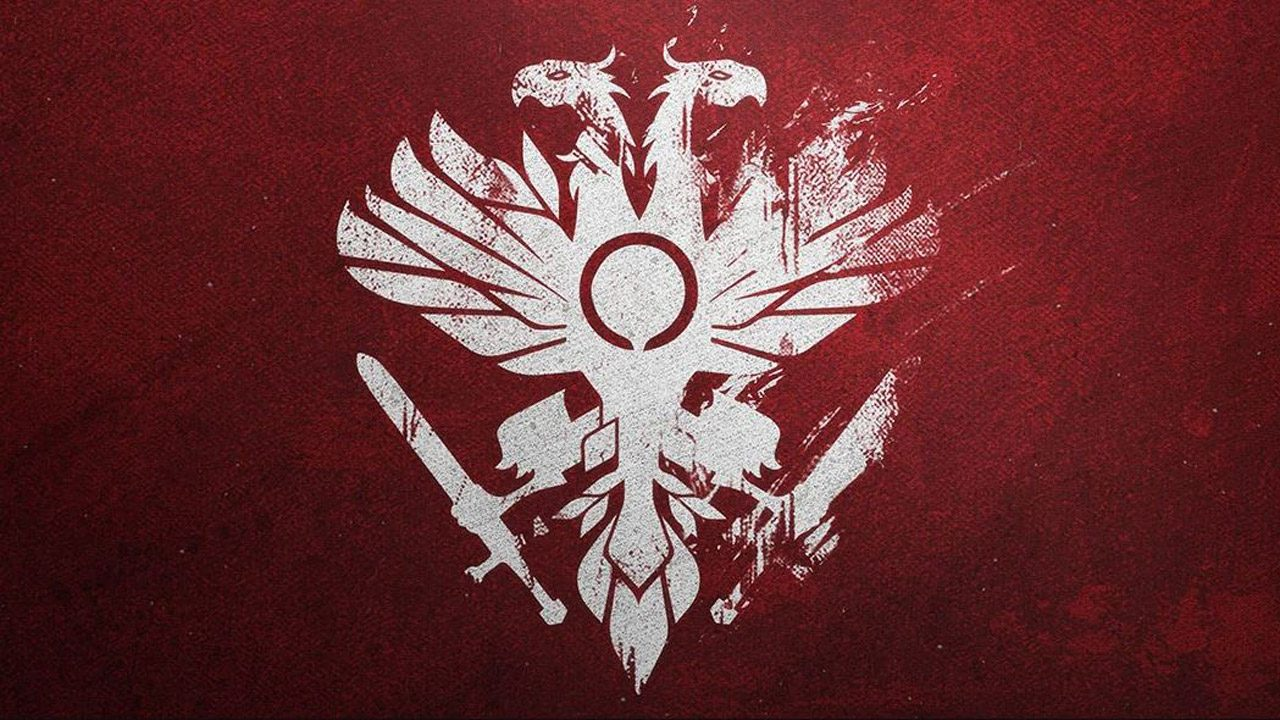
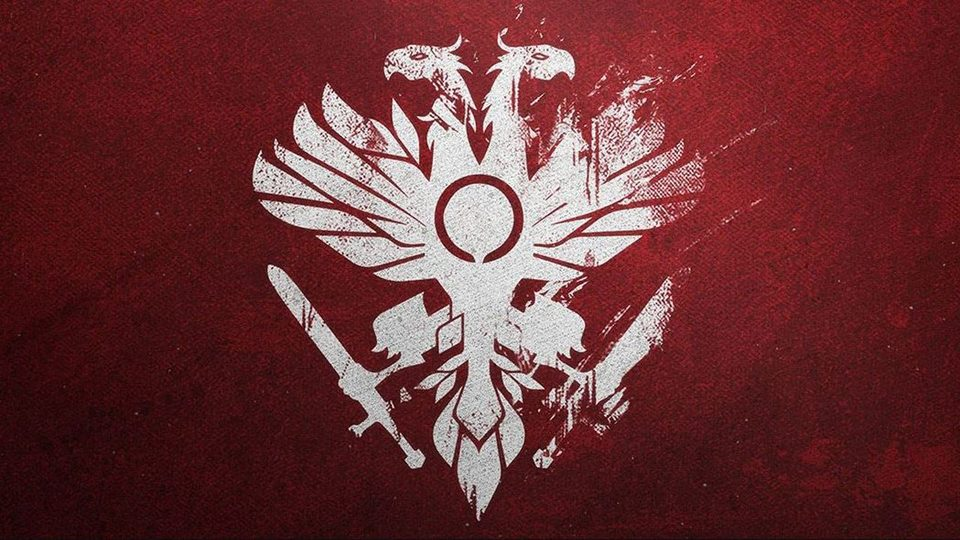
SEO: description lengths, structured data, smaller key art
- Guide descriptions cut at ~155 characters (Google's limit) instead of
  197; the eight short ones (Home, This Week, Guides, Raids, Dungeons,
  FAQ, God Rolls, Privacy, Terms) rewritten at 126-153.
- JSON-LD: breadcrumbs + Article on every guide (generated), WebSite +
  Organization on Home; the site checks validate it.
- Crucible crest 960x540 (201 -> 121KB), Pantheon art re-saved (214 -> 190KB).

Claude-Session: https://claude.ai/code/session_014FnQn4wDgFVhEKCEvJxqMS

Changed region(s): [[0.6562, 0.2667, 0.7188, 0.3556], [0.625, 0.237, 0.6875, 0.2963]]

diff --git a/dungeon-spire-of-the-watcher.html b/dungeon-spire-of-the-watcher.html
@@ -42,11 +42,11 @@
 </script>
 <title>Spire of the Watcher Dungeon Guide - Rally Flag</title>
 <script>window.GUIDE_SLUG = "spire-of-the-watcher";</script>
-<meta name="description" content="Spire of the Watcher runs on a single mechanic the whole way through: kill Conduit Minotaurs for a buff called Arctrician, then use it to power nodes in the correct sequence along a cable. Once…">
+<meta name="description" content="Spire of the Watcher runs on a single mechanic the whole way through: kill Conduit Minotaurs for a buff called Arctrician, then use it to power nodes in…">
 <meta property="og:type" content="website">
 <meta property="og:site_name" content="Rally Flag">
 <meta property="og:title" content="Spire of the Watcher Dungeon Guide">
-<meta property="og:description" content="Spire of the Watcher runs on a single mechanic the whole way through: kill Conduit Minotaurs for a buff called Arctrician, then use it to power nodes in the correct sequence along a cable. Once…">
+<meta property="og:description" content="Spire of the Watcher runs on a single mechanic the whole way through: kill Conduit Minotaurs for a buff called Arctrician, then use it to power nodes in…">
 <meta property="og:url" content="https://rallyflag.gg/dungeon-spire-of-the-watcher.html">
 <link rel="canonical" href="https://rallyflag.gg/dungeon-spire-of-the-watcher.html">
 <meta property="og:image" content="https://www.bungie.net/img/destiny_content/pgcr/dungeon_spire_of_the_watcher.jpg">
@@ -55,7 +55,7 @@
 <meta property="og:image:alt" content="Spire of the Watcher, official Destiny 2 art">
 <meta name="twitter:card" content="summary_large_image">
 <meta name="twitter:title" content="Spire of the Watcher Dungeon Guide">
-<meta name="twitter:description" content="Spire of the Watcher runs on a single mechanic the whole way through: kill Conduit Minotaurs for a buff called Arctrician, then use it to power nodes in the correct sequence along a cable. Once…">
+<meta name="twitter:description" content="Spire of the Watcher runs on a single mechanic the whole way through: kill Conduit Minotaurs for a buff called Arctrician, then use it to power nodes in…">
 <meta name="twitter:image" content="https://www.bungie.net/img/destiny_content/pgcr/dungeon_spire_of_the_watcher.jpg">
 <link rel="preconnect" href="https://fonts.googleapis.com">
 <link rel="preconnect" href="https://fonts.gstatic.com" crossorigin>
@@ -134,6 +134,7 @@
   .yc-link{ font-size:13px; color:var(--accent-text); white-space:nowrap; }
   @media (max-width:640px){ .your-clears{ margin:14px 16px 0; } }
 </style>
+<script type="application/ld+json">{"@context":"https://schema.org","@graph":[{"@type":"BreadcrumbList","itemListElement":[{"@type":"ListItem","position":1,"name":"Rally Flag","item":"https://rallyflag.gg/"},{"@type":"ListItem","position":2,"name":"Dungeons","item":"https://rallyflag.gg/dungeons.html"},{"@type":"ListItem","position":3,"name":"Spire of the Watcher","item":"https://rallyflag.gg/dungeon-spire-of-the-watcher.html"}]},{"@type":"Article","headline":"Spire of the Watcher Dungeon Guide","description":"Spire of the Watcher runs on a single mechanic the whole way through: kill Conduit Minotaurs for a buff called Arctrician, then use it to power nodes in…","image":["https://www.bungie.net/img/destiny_content/pgcr/dungeon_spire_of_the_watcher.jpg"],"url":"https://rallyflag.gg/dungeon-spire-of-the-watcher.html","mainEntityOfPage":"https://rallyflag.gg/dungeon-spire-of-the-watcher.html","inLanguage":"en","about":{"@type":"VideoGame","name":"Destiny 2"},"author":{"@type":"Organization","name":"Rally Flag","url":"https://rallyflag.gg/"},"publisher":{"@type":"Organization","name":"Rally Flag","url":"https://rallyflag.gg/","logo":{"@type":"ImageObject","url":"https://rallyflag.gg/assets/icon-512.png"}}}]}</script>
 </head>
 <body data-nav-group="guides">
 

diff --git a/dungeon-grasp-of-avarice.html b/dungeon-grasp-of-avarice.html
@@ -42,11 +42,11 @@
 </script>
 <title>Grasp of Avarice Dungeon Guide - Rally Flag</title>
 <script>window.GUIDE_SLUG = "grasp-of-avarice";</script>
-<meta name="description" content="Grasp of Avarice takes place in the Cosmodrome's old loot cave, and it's built around one repeating idea: kill enemies for a stacking buff called Burdened by Riches, then carry it to a crystal to…">
+<meta name="description" content="Grasp of Avarice takes place in the Cosmodrome's old loot cave, and it's built around one repeating idea: kill enemies for a stacking buff called Burdened…">
 <meta property="og:type" content="website">
 <meta property="og:site_name" content="Rally Flag">
 <meta property="og:title" content="Grasp of Avarice Dungeon Guide">
-<meta property="og:description" content="Grasp of Avarice takes place in the Cosmodrome's old loot cave, and it's built around one repeating idea: kill enemies for a stacking buff called Burdened by Riches, then carry it to a crystal to…">
+<meta property="og:description" content="Grasp of Avarice takes place in the Cosmodrome's old loot cave, and it's built around one repeating idea: kill enemies for a stacking buff called Burdened…">
 <meta property="og:url" content="https://rallyflag.gg/dungeon-grasp-of-avarice.html">
 <link rel="canonical" href="https://rallyflag.gg/dungeon-grasp-of-avarice.html">
 <meta property="og:image" content="https://www.bungie.net/img/destiny_content/pgcr/30th-anniversary-grasp-of-avarice.jpg">
@@ -55,7 +55,7 @@
 <meta property="og:image:alt" content="Grasp of Avarice, official Destiny 2 art">
 <meta name="twitter:card" content="summary_large_image">
 <meta name="twitter:title" content="Grasp of Avarice Dungeon Guide">
-<meta name="twitter:description" content="Grasp of Avarice takes place in the Cosmodrome's old loot cave, and it's built around one repeating idea: kill enemies for a stacking buff called Burdened by Riches, then carry it to a crystal to…">
+<meta name="twitter:description" content="Grasp of Avarice takes place in the Cosmodrome's old loot cave, and it's built around one repeating idea: kill enemies for a stacking buff called Burdened…">
 <meta name="twitter:image" content="https://www.bungie.net/img/destiny_content/pgcr/30th-anniversary-grasp-of-avarice.jpg">
 <link rel="preconnect" href="https://fonts.googleapis.com">
 <link rel="preconnect" href="https://fonts.gstatic.com" crossorigin>
@@ -134,6 +134,7 @@
   .yc-link{ font-size:13px; color:var(--accent-text); white-space:nowrap; }
   @media (max-width:640px){ .your-clears{ margin:14px 16px 0; } }
 </style>
+<script type="application/ld+json">{"@context":"https://schema.org","@graph":[{"@type":"BreadcrumbList","itemListElement":[{"@type":"ListItem","position":1,"name":"Rally Flag","item":"https://rallyflag.gg/"},{"@type":"ListItem","position":2,"name":"Dungeons","item":"https://rallyflag.gg/dungeons.html"},{"@type":"ListItem","position":3,"name":"Grasp of Avarice","item":"https://rallyflag.gg/dungeon-grasp-of-avarice.html"}]},{"@type":"Article","headline":"Grasp of Avarice Dungeon Guide","description":"Grasp of Avarice takes place in the Cosmodrome's old loot cave, and it's built around one repeating idea: kill enemies for a stacking buff called Burdened…","image":["https://www.bungie.net/img/destiny_content/pgcr/30th-anniversary-grasp-of-avarice.jpg"],"url":"https://rallyflag.gg/dungeon-grasp-of-avarice.html","mainEntityOfPage":"https://rallyflag.gg/dungeon-grasp-of-avarice.html","inLanguage":"en","about":{"@type":"VideoGame","name":"Destiny 2"},"author":{"@type":"Organization","name":"Rally Flag","url":"https://rallyflag.gg/"},"publisher":{"@type":"Organization","name":"Rally Flag","url":"https://rallyflag.gg/","logo":{"@type":"ImageObject","url":"https://rallyflag.gg/assets/icon-512.png"}}}]}</script>
 </head>
 <body data-nav-group="guides">
 

diff --git a/dungeon-ghosts-of-the-deep.html b/dungeon-ghosts-of-the-deep.html
@@ -42,11 +42,11 @@
 </script>
 <title>Ghosts of the Deep Dungeon Guide - Rally Flag</title>
 <script>window.GUIDE_SLUG = "ghosts-of-the-deep";</script>
-<meta name="description" content="Ghosts of the Deep leans on one repeating idea: track down a Hive rune symbol, defeat a Lightbearer to claim a Vestige of Light buff, then imbue the correct matching statue before the buff's timer…">
+<meta name="description" content="Ghosts of the Deep leans on one repeating idea: track down a Hive rune symbol, defeat a Lightbearer to claim a Vestige of Light buff, then imbue the…">
 <meta property="og:type" content="website">
 <meta property="og:site_name" content="Rally Flag">
 <meta property="og:title" content="Ghosts of the Deep Dungeon Guide">
-<meta property="og:description" content="Ghosts of the Deep leans on one repeating idea: track down a Hive rune symbol, defeat a Lightbearer to claim a Vestige of Light buff, then imbue the correct matching statue before the buff's timer…">
+<meta property="og:description" content="Ghosts of the Deep leans on one repeating idea: track down a Hive rune symbol, defeat a Lightbearer to claim a Vestige of Light buff, then imbue the…">
 <meta property="og:url" content="https://rallyflag.gg/dungeon-ghosts-of-the-deep.html">
 <link rel="canonical" href="https://rallyflag.gg/dungeon-ghosts-of-the-deep.html">
 <meta property="og:image" content="https://www.bungie.net/img/destiny_content/pgcr/dungeon_ghosts_of_the_deep.jpg">
@@ -55,7 +55,7 @@
 <meta property="og:image:alt" content="Ghosts of the Deep, official Destiny 2 art">
 <meta name="twitter:card" content="summary_large_image">
 <meta name="twitter:title" content="Ghosts of the Deep Dungeon Guide">
-<meta name="twitter:description" content="Ghosts of the Deep leans on one repeating idea: track down a Hive rune symbol, defeat a Lightbearer to claim a Vestige of Light buff, then imbue the correct matching statue before the buff's timer…">
+<meta name="twitter:description" content="Ghosts of the Deep leans on one repeating idea: track down a Hive rune symbol, defeat a Lightbearer to claim a Vestige of Light buff, then imbue the…">
 <meta name="twitter:image" content="https://www.bungie.net/img/destiny_content/pgcr/dungeon_ghosts_of_the_deep.jpg">
 <link rel="preconnect" href="https://fonts.googleapis.com">
 <link rel="preconnect" href="https://fonts.gstatic.com" crossorigin>
@@ -134,6 +134,7 @@
   .yc-link{ font-size:13px; color:var(--accent-text); white-space:nowrap; }
   @media (max-width:640px){ .your-clears{ margin:14px 16px 0; } }
 </style>
+<script type="application/ld+json">{"@context":"https://schema.org","@graph":[{"@type":"BreadcrumbList","itemListElement":[{"@type":"ListItem","position":1,"name":"Rally Flag","item":"https://rallyflag.gg/"},{"@type":"ListItem","position":2,"name":"Dungeons","item":"https://rallyflag.gg/dungeons.html"},{"@type":"ListItem","position":3,"name":"Ghosts of the Deep","item":"https://rallyflag.gg/dungeon-ghosts-of-the-deep.html"}]},{"@type":"Article","headline":"Ghosts of the Deep Dungeon Guide","description":"Ghosts of the Deep leans on one repeating idea: track down a Hive rune symbol, defeat a Lightbearer to claim a Vestige of Light buff, then imbue the…","image":["https://www.bungie.net/img/destiny_content/pgcr/dungeon_ghosts_of_the_deep.jpg"],"url":"https://rallyflag.gg/dungeon-ghosts-of-the-deep.html","mainEntityOfPage":"https://rallyflag.gg/dungeon-ghosts-of-the-deep.html","inLanguage":"en","about":{"@type":"VideoGame","name":"Destiny 2"},"author":{"@type":"Organization","name":"Rally Flag","url":"https://rallyflag.gg/"},"publisher":{"@type":"Organization","name":"Rally Flag","url":"https://rallyflag.gg/","logo":{"@type":"ImageObject","url":"https://rallyflag.gg/assets/icon-512.png"}}}]}</script>
 </head>
 <body data-nav-group="guides">
 

diff --git a/raid-garden-of-salvation.html b/raid-garden-of-salvation.html
@@ -42,11 +42,11 @@
 </script>
 <title>Garden of Salvation Raid Guide - Rally Flag</title>
 <script>window.GUIDE_SLUG = "garden-of-salvation";</script>
-<meta name="description" content="Garden of Salvation is short compared to most raids (just four encounters), but it makes up for that with pure endurance. There's very little in the way of puzzles here; it's mostly about managing…">
+<meta name="description" content="Garden of Salvation is short compared to most raids (just four encounters), but it makes up for that with pure endurance. There's very little in the way…">
 <meta property="og:type" content="website">
 <meta property="og:site_name" content="Rally Flag">
 <meta property="og:title" content="Garden of Salvation Raid Guide">
-<meta property="og:description" content="Garden of Salvation is short compared to most raids (just four encounters), but it makes up for that with pure endurance. There's very little in the way of puzzles here; it's mostly about managing…">
+<meta property="og:description" content="Garden of Salvation is short compared to most raids (just four encounters), but it makes up for that with pure endurance. There's very little in the way…">
 <meta property="og:url" content="https://rallyflag.gg/raid-garden-of-salvation.html">
 <link rel="canonical" href="https://rallyflag.gg/raid-garden-of-salvation.html">
 <meta property="og:image" content="https://www.bungie.net/img/destiny_content/pgcr/raid_garden_of_salvation.jpg">
@@ -55,7 +55,7 @@
 <meta property="og:image:alt" content="Garden of Salvation, official Destiny 2 art">
 <meta name="twitter:card" content="summary_large_image">
 <meta name="twitter:title" content="Garden of Salvation Raid Guide">
-<meta name="twitter:description" content="Garden of Salvation is short compared to most raids (just four encounters), but it makes up for that with pure endurance. There's very little in the way of puzzles here; it's mostly about managing…">
+<meta name="twitter:description" content="Garden of Salvation is short compared to most raids (just four encounters), but it makes up for that with pure endurance. There's very little in the way…">
 <meta name="twitter:image" content="https://www.bungie.net/img/destiny_content/pgcr/raid_garden_of_salvation.jpg">
 <link rel="preconnect" href="https://fonts.googleapis.com">
 <link rel="preconnect" href="https://fonts.gstatic.com" crossorigin>
@@ -199,6 +199,7 @@
   .yc-link{ font-size:13px; color:var(--accent-text); white-space:nowrap; }
   @media (max-width:640px){ .your-clears{ margin:14px 16px 0; } }
 </style>
+<script type="application/ld+json">{"@context":"https://schema.org","@graph":[{"@type":"BreadcrumbList","itemListElement":[{"@type":"ListItem","position":1,"name":"Rally Flag","item":"https://rallyflag.gg/"},{"@type":"ListItem","position":2,"name":"Raids","item":"https://rallyflag.gg/raids.html"},{"@type":"ListItem","position":3,"name":"Garden of Salvation","item":"https://rallyflag.gg/raid-garden-of-salvation.html"}]},{"@type":"Article","headline":"Garden of Salvation Raid Guide","description":"Garden of Salvation is short compared to most raids (just four encounters), but it makes up for that with pure endurance. There's very little in the way…","image":["https://www.bungie.net/img/destiny_content/pgcr/raid_garden_of_salvation.jpg"],"url":"https://rallyflag.gg/raid-garden-of-salvation.html","mainEntityOfPage":"https://rallyflag.gg/raid-garden-of-salvation.html","inLanguage":"en","about":{"@type":"VideoGame","name":"Destiny 2"},"author":{"@type":"Organization","name":"Rally Flag","url":"https://rallyflag.gg/"},"publisher":{"@type":"Organization","name":"Rally Flag","url":"https://rallyflag.gg/","logo":{"@type":"ImageObject","url":"https://rallyflag.gg/assets/icon-512.png"}}}]}</script>
 </head>
 <body data-nav-group="guides">
 

diff --git a/raid-root-of-nightmares.html b/raid-root-of-nightmares.html
@@ -42,11 +42,11 @@
 </script>
 <title>Root of Nightmares Raid Guide - Rally Flag</title>
 <script>window.GUIDE_SLUG = "root-of-nightmares";</script>
-<meta name="description" content="Root of Nightmares runs almost entirely on one shared idea: building a network of glowing nodes by carrying a short-lived buff from one to the next. Once you understand that loop, every encounter…">
+<meta name="description" content="Root of Nightmares runs almost entirely on one shared idea: building a network of glowing nodes by carrying a short-lived buff from one to the next. Once…">
 <meta property="og:type" content="website">
 <meta property="og:site_name" content="Rally Flag">
 <meta property="og:title" content="Root of Nightmares Raid Guide">
-<meta property="og:description" content="Root of Nightmares runs almost entirely on one shared idea: building a network of glowing nodes by carrying a short-lived buff from one to the next. Once you understand that loop, every encounter…">
+<meta property="og:description" content="Root of Nightmares runs almost entirely on one shared idea: building a network of glowing nodes by carrying a short-lived buff from one to the next. Once…">
 <meta property="og:url" content="https://rallyflag.gg/raid-root-of-nightmares.html">
 <link rel="canonical" href="https://rallyflag.gg/raid-root-of-nightmares.html">
 <meta property="og:image" content="https://www.bungie.net/img/destiny_content/pgcr/raid_root_of_nightmares.jpg">
@@ -55,7 +55,7 @@
 <meta property="og:image:alt" content="Root of Nightmares, official Destiny 2 art">
 <meta name="twitter:card" content="summary_large_image">
 <meta name="twitter:title" content="Root of Nightmares Raid Guide">
-<meta name="twitter:description" content="Root of Nightmares runs almost entirely on one shared idea: building a network of glowing nodes by carrying a short-lived buff from one to the next. Once you understand that loop, every encounter…">
+<meta name="twitter:description" content="Root of Nightmares runs almost entirely on one shared idea: building a network of glowing nodes by carrying a short-lived buff from one to the next. Once…">
 <meta name="twitter:image" content="https://www.bungie.net/img/destiny_content/pgcr/raid_root_of_nightmares.jpg">
 <link rel="preconnect" href="https://fonts.googleapis.com">
 <link rel="preconnect" href="https://fonts.gstatic.com" crossorigin>
@@ -199,6 +199,7 @@
   .yc-link{ font-size:13px; color:var(--accent-text); white-space:nowrap; }
   @media (max-width:640px){ .your-clears{ margin:14px 16px 0; } }
 </style>
+<script type="application/ld+json">{"@context":"https://schema.org","@graph":[{"@type":"BreadcrumbList","itemListElement":[{"@type":"ListItem","position":1,"name":"Rally Flag","item":"https://rallyflag.gg/"},{"@type":"ListItem","position":2,"name":"Raids","item":"https://rallyflag.gg/raids.html"},{"@type":"ListItem","position":3,"name":"Root of Nightmares","item":"https://rallyflag.gg/raid-root-of-nightmares.html"}]},{"@type":"Article","headline":"Root of Nightmares Raid Guide","description":"Root of Nightmares runs almost entirely on one shared idea: building a network of glowing nodes by carrying a short-lived buff from one to the next. Once…","image":["https://www.bungie.net/img/destiny_content/pgcr/raid_root_of_nightmares.jpg"],"url":"https://rallyflag.gg/raid-root-of-nightmares.html","mainEntityOfPage":"https://rallyflag.gg/raid-root-of-nightmares.html","inLanguage":"en","about":{"@type":"VideoGame","name":"Destiny 2"},"author":{"@type":"Organization","name":"Rally Flag","url":"https://rallyflag.gg/"},"publisher":{"@type":"Organization","name":"Rally Flag","url":"https://rallyflag.gg/","logo":{"@type":"ImageObject","url":"https://rallyflag.gg/assets/icon-512.png"}}}]}</script>
 </head>
 <body data-nav-group="guides">
 

diff --git a/raid-the-desert-perpetual.html b/raid-the-desert-perpetual.html
@@ -42,11 +42,11 @@
 </script>
 <title>The Desert Perpetual Raid Guide - Rally Flag</title>
 <script>window.GUIDE_SLUG = "the-desert-perpetual";</script>
-<meta name="description" content="The Desert Perpetual is built around a hub-and-spoke structure: you clear three boss encounters in whatever order you like before the final fight. Nearly everything in this raid runs on the same…">
+<meta name="description" content="The Desert Perpetual is built around a hub-and-spoke structure: you clear three boss encounters in whatever order you like before the final fight. Nearly…">
 <meta property="og:type" content="website">
 <meta property="og:site_name" content="Rally Flag">
 <meta property="og:title" content="The Desert Perpetual Raid Guide">
-<meta property="og:description" content="The Desert Perpetual is built around a hub-and-spoke structure: you clear three boss encounters in whatever order you like before the final fight. Nearly everything in this raid runs on the same…">
+<meta property="og:description" content="The Desert Perpetual is built around a hub-and-spoke structure: you clear three boss encounters in whatever order you like before the final fight. Nearly…">
 <meta property="og:url" content="https://rallyflag.gg/raid-the-desert-perpetual.html">
 <link rel="canonical" href="https://rallyflag.gg/raid-the-desert-perpetual.html">
 <meta property="og:image" content="https://www.bungie.net/img/destiny_content/pgcr/raid_gateways.jpg">
@@ -55,7 +55,7 @@
 <meta property="og:image:alt" content="The Desert Perpetual, official Destiny 2 art">
 <meta name="twitter:card" content="summary_large_image">
 <meta name="twitter:title" content="The Desert Perpetual Raid Guide">
-<meta name="twitter:description" content="The Desert Perpetual is built around a hub-and-spoke structure: you clear three boss encounters in whatever order you like before the final fight. Nearly everything in this raid runs on the same…">
+<meta name="twitter:description" content="The Desert Perpetual is built around a hub-and-spoke structure: you clear three boss encounters in whatever order you like before the final fight. Nearly…">
 <meta name="twitter:image" content="https://www.bungie.net/img/destiny_content/pgcr/raid_gateways.jpg">
 <link rel="preconnect" href="https://fonts.googleapis.com">
 <link rel="preconnect" href="https://fonts.gstatic.com" crossorigin>
@@ -199,6 +199,7 @@
   .yc-link{ font-size:13px; color:var(--accent-text); white-space:nowrap; }
   @media (max-width:640px){ .your-clears{ margin:14px 16px 0; } }
 </style>
+<script type="application/ld+json">{"@context":"https://schema.org","@graph":[{"@type":"BreadcrumbList","itemListElement":[{"@type":"ListItem","position":1,"name":"Rally Flag","item":"https://rallyflag.gg/"},{"@type":"ListItem","position":2,"name":"Raids","item":"https://rallyflag.gg/raids.html"},{"@type":"ListItem","position":3,"name":"The Desert Perpetual","item":"https://rallyflag.gg/raid-the-desert-perpetual.html"}]},{"@type":"Article","headline":"The Desert Perpetual Raid Guide","description":"The Desert Perpetual is built around a hub-and-spoke structure: you clear three boss encounters in whatever order you like before the final fight. Nearly…","image":["https://www.bungie.net/img/destiny_content/pgcr/raid_gateways.jpg"],"url":"https://rallyflag.gg/raid-the-desert-perpetual.html","mainEntityOfPage":"https://rallyflag.gg/raid-the-desert-perpetual.html","inLanguage":"en","about":{"@type":"VideoGame","name":"Destiny 2"},"author":{"@type":"Organization","name":"Rally Flag","url":"https://rallyflag.gg/"},"publisher":{"@type":"Organization","name":"Rally Flag","url":"https://rallyflag.gg/","logo":{"@type":"ImageObject","url":"https://rallyflag.gg/assets/icon-512.png"}}}]}</script>
 </head>
 <body data-nav-group="guides">
 

diff --git a/raid-vow-of-the-disciple.html b/raid-vow-of-the-disciple.html
@@ -42,11 +42,11 @@
 </script>
 <title>Vow of the Disciple Raid Guide - Rally Flag</title>
 <script>window.GUIDE_SLUG = "vow-of-the-disciple";</script>
-<meta name="description" content="Vow of the Disciple hinges on symbol callouts more than any raid before it. Nearly every encounter has you finding two or three symbols, matching them to a target, and acting fast once you do. It…">
+<meta name="description" content="Vow of the Disciple hinges on symbol callouts more than any raid before it. Nearly every encounter has you finding two or three symbols, matching them to…">
 <meta property="og:type" content="website">
 <meta property="og:site_name" content="Rally Flag">
 <meta property="og:title" content="Vow of the Disciple Raid Guide">
-<meta property="og:description" content="Vow of the Disciple hinges on symbol callouts more than any raid before it. Nearly every encounter has you finding two or three symbols, matching them to a target, and acting fast once you do. It…">
+<meta property="og:description" content="Vow of the Disciple hinges on symbol callouts more than any raid before it. Nearly every encounter has you finding two or three symbols, matching them to…">
 <meta property="og:url" content="https://rallyflag.gg/raid-vow-of-the-disciple.html">
 <link rel="canonical" href="https://rallyflag.gg/raid-vow-of-the-disciple.html">
 <meta property="og:image" content="https://www.bungie.net/img/destiny_content/pgcr/raid_nemesis.jpg">
@@ -55,7 +55,7 @@
 <meta property="og:image:alt" content="Vow of the Disciple, official Destiny 2 art">
 <meta name="twitter:card" content="summary_large_image">
 <meta name="twitter:title" content="Vow of the Disciple Raid Guide">
-<meta name="twitter:description" content="Vow of the Disciple hinges on symbol callouts more than any raid before it. Nearly every encounter has you finding two or three symbols, matching them to a target, and acting fast once you do. It…">
+<meta name="twitter:description" content="Vow of the Disciple hinges on symbol callouts more than any raid before it. Nearly every encounter has you finding two or three symbols, matching them to…">
 <meta name="twitter:image" content="https://www.bungie.net/img/destiny_content/pgcr/raid_nemesis.jpg">
 <link rel="preconnect" href="https://fonts.googleapis.com">
 <link rel="preconnect" href="https://fonts.gstatic.com" crossorigin>
@@ -199,6 +199,7 @@
   .yc-link{ font-size:13px; color:var(--accent-text); white-space:nowrap; }
   @media (max-width:640px){ .your-clears{ margin:14px 16px 0; } }
 </style>
+<script type="application/ld+json">{"@context":"https://schema.org","@graph":[{"@type":"BreadcrumbList","itemListElement":[{"@type":"ListItem","position":1,"name":"Rally Flag","item":"https://rallyflag.gg/"},{"@type":"ListItem","position":2,"name":"Raids","item":"https://rallyflag.gg/raids.html"},{"@type":"ListItem","position":3,"name":"Vow of the Disciple","item":"https://rallyflag.gg/raid-vow-of-the-disciple.html"}]},{"@type":"Article","headline":"Vow of the Disciple Raid Guide","description":"Vow of the Disciple hinges on symbol callouts more than any raid before it. Nearly every encounter has you finding two or three symbols, matching them to…","image":["https://www.bungie.net/img/destiny_content/pgcr/raid_nemesis.jpg"],"url":"https://rallyflag.gg/raid-vow-of-the-disciple.html","mainEntityOfPage":"https://rallyflag.gg/raid-vow-of-the-disciple.html","inLanguage":"en","about":{"@type":"VideoGame","name":"Destiny 2"},"author":{"@type":"Organization","name":"Rally Flag","url":"https://rallyflag.gg/"},"publisher":{"@type":"Organization","name":"Rally Flag","url":"https://rallyflag.gg/","logo":{"@type":"ImageObject","url":"https://rallyflag.gg/assets/icon-512.png"}}}]}</script>
 </head>
 <body data-nav-group="guides">
 

diff --git a/dungeon-sundered-doctrine.html b/dungeon-sundered-doctrine.html
@@ -42,11 +42,11 @@
 </script>
 <title>Sundered Doctrine Dungeon Guide - Rally Flag</title>
 <script>window.GUIDE_SLUG = "sundered-doctrine";</script>
-<meta name="description" content="Sundered Doctrine takes place in Rhulk's pyramid, and it runs on symbols and light beams: using lenses to redirect Darkness beams onto the correct wall symbol shows up in every encounter. The…">
+<meta name="description" content="Sundered Doctrine takes place in Rhulk's pyramid, and it runs on symbols and light beams: using lenses to redirect Darkness beams onto the correct wall…">
 <meta property="og:type" content="website">
 <meta property="og:site_name" content="Rally Flag">
 <meta property="og:title" content="Sundered Doctrine Dungeon Guide">
-<meta property="og:description" content="Sundered Doctrine takes place in Rhulk's pyramid, and it runs on symbols and light beams: using lenses to redirect Darkness beams onto the correct wall symbol shows up in every encounter. The…">
+<meta property="og:description" content="Sundered Doctrine takes place in Rhulk's pyramid, and it runs on symbols and light beams: using lenses to redirect Darkness beams onto the correct wall…">
 <meta property="og:url" content="https://rallyflag.gg/dungeon-sundered-doctrine.html">
 <link rel="canonical" href="https://rallyflag.gg/dungeon-sundered-doctrine.html">
 <meta property="og:image" content="https://www.bungie.net/img/destiny_content/pgcr/dungeon_delver.jpg">
@@ -55,7 +55,7 @@
 <meta property="og:image:alt" content="Sundered Doctrine, official Destiny 2 art">
 <meta name="twitter:card" content="summary_large_image">
 <meta name="twitter:title" content="Sundered Doctrine Dungeon Guide">
-<meta name="twitter:description" content="Sundered Doctrine takes place in Rhulk's pyramid, and it runs on symbols and light beams: using lenses to redirect Darkness beams onto the correct wall symbol shows up in every encounter. The…">
+<meta name="twitter:description" content="Sundered Doctrine takes place in Rhulk's pyramid, and it runs on symbols and light beams: using lenses to redirect Darkness beams onto the correct wall…">
 <meta name="twitter:image" content="https://www.bungie.net/img/destiny_content/pgcr/dungeon_delver.jpg">
 <link rel="preconnect" href="https://fonts.googleapis.com">
 <link rel="preconnect" href="https://fonts.gstatic.com" crossorigin>
@@ -134,6 +134,7 @@
   .yc-link{ font-size:13px; color:var(--accent-text); white-space:nowrap; }
   @media (max-width:640px){ .your-clears{ margin:14px 16px 0; } }
 </style>
+<script type="application/ld+json">{"@context":"https://schema.org","@graph":[{"@type":"BreadcrumbList","itemListElement":[{"@type":"ListItem","position":1,"name":"Rally Flag","item":"https://rallyflag.gg/"},{"@type":"ListItem","position":2,"name":"Dungeons","item":"https://rallyflag.gg/dungeons.html"},{"@type":"ListItem","position":3,"name":"Sundered Doctrine","item":"https://rallyflag.gg/dungeon-sundered-doctrine.html"}]},{"@type":"Article","headline":"Sundered Doctrine Dungeon Guide","description":"Sundered Doctrine takes place in Rhulk's pyramid, and it runs on symbols and light beams: using lenses to redirect Darkness beams onto the correct wall…","image":["https://www.bungie.net/img/destiny_content/pgcr/dungeon_delver.jpg"],"url":"https://rallyflag.gg/dungeon-sundered-doctrine.html","mainEntityOfPage":"https://rallyflag.gg/dungeon-sundered-doctrine.html","inLanguage":"en","about":{"@type":"VideoGame","name":"Destiny 2"},"author":{"@type":"Organization","name":"Rally Flag","url":"https://rallyflag.gg/"},"publisher":{"@type":"Organization","name":"Rally Flag","url":"https://rallyflag.gg/","logo":{"@type":"ImageObject","url":"https://rallyflag.gg/assets/icon-512.png"}}}]}</script>
 </head>
 <body data-nav-group="guides">
 

diff --git a/raid-deep-stone-crypt.html b/raid-deep-stone-crypt.html
@@ -42,11 +42,11 @@
 </script>
 <title>Deep Stone Crypt Raid Guide - Rally Flag</title>
 <script>window.GUIDE_SLUG = "deep-stone-crypt";</script>
-<meta name="description" content="Deep Stone Crypt introduced two buffs, Scanner and Operator, that show up again and again through the raid: Scanner lets you see something hidden that other players can't, and Operator lets you…">
+<meta name="description" content="Deep Stone Crypt introduced two buffs, Scanner and Operator, that show up again and again through the raid: Scanner lets you see something hidden that…">
 <meta property="og:type" content="website">
 <meta property="og:site_name" content="Rally Flag">
 <meta property="og:title" content="Deep Stone Crypt Raid Guide">
-<meta property="og:description" content="Deep Stone Crypt introduced two buffs, Scanner and Operator, that show up again and again through the raid: Scanner lets you see something hidden that other players can't, and Operator lets you…">
+<meta property="og:description" content="Deep Stone Crypt introduced two buffs, Scanner and Operator, that show up again and again through the raid: Scanner lets you see something hidden that…">
 <meta property="og:url" content="https://rallyflag.gg/raid-deep-stone-crypt.html">
 <link rel="canonical" href="https://rallyflag.gg/raid-deep-stone-crypt.html">
 <meta property="og:image" content="https://www.bungie.net/img/destiny_content/pgcr/europa-raid-deep-stone-crypt.jpg">
@@ -55,7 +55,7 @@
 <meta property="og:image:alt" content="Deep Stone Crypt, official Destiny 2 art">
 <meta name="twitter:card" content="summary_large_image">
 <meta name="twitter:title" content="Deep Stone Crypt Raid Guide">
-<meta name="twitter:description" content="Deep Stone Crypt introduced two buffs, Scanner and Operator, that show up again and again through the raid: Scanner lets you see something hidden that other players can't, and Operator lets you…">
+<meta name="twitter:description" content="Deep Stone Crypt introduced two buffs, Scanner and Operator, that show up again and again through the raid: Scanner lets you see something hidden that…">
 <meta name="twitter:image" content="https://www.bungie.net/img/destiny_content/pgcr/europa-raid-deep-stone-crypt.jpg">
 <link rel="preconnect" href="https://fonts.googleapis.com">
 <link rel="preconnect" href="https://fonts.gstatic.com" crossorigin>
@@ -199,6 +199,7 @@
   .yc-link{ font-size:13px; color:var(--accent-text); white-space:nowrap; }
   @media (max-width:640px){ .your-clears{ margin:14px 16px 0; } }
 </style>
+<script type="application/ld+json">{"@context":"https://schema.org","@graph":[{"@type":"BreadcrumbList","itemListElement":[{"@type":"ListItem","position":1,"name":"Rally Flag","item":"https://rallyflag.gg/"},{"@type":"ListItem","position":2,"name":"Raids","item":"https://rallyflag.gg/raids.html"},{"@type":"ListItem","position":3,"name":"Deep Stone Crypt","item":"https://rallyflag.gg/raid-deep-stone-crypt.html"}]},{"@type":"Article","headline":"Deep Stone Crypt Raid Guide","description":"Deep Stone Crypt introduced two buffs, Scanner and Operator, that show up again and again through the raid: Scanner lets you see something hidden that…","image":["https://www.bungie.net/img/destiny_content/pgcr/europa-raid-deep-stone-crypt.jpg"],"url":"https://rallyflag.gg/raid-deep-stone-crypt.html","mainEntityOfPage":"https://rallyflag.gg/raid-deep-stone-crypt.html","inLanguage":"en","about":{"@type":"VideoGame","name":"Destiny 2"},"author":{"@type":"Organization","name":"Rally Flag","url":"https://rallyflag.gg/"},"publisher":{"@type":"Organization","name":"Rally Flag","url":"https://rallyflag.gg/","logo":{"@type":"ImageObject","url":"https://rallyflag.gg/assets/icon-512.png"}}}]}</script>
 </head>
 <body data-nav-group="guides">
 

diff --git a/dungeon-pit-of-heresy.html b/dungeon-pit-of-heresy.html
@@ -42,11 +42,11 @@
 </script>
 <title>Pit of Heresy Dungeon Guide - Rally Flag</title>
 <script>window.GUIDE_SLUG = "pit-of-heresy";</script>
-<meta name="description" content="Pit of Heresy leans hard on one recurring idea: pick up a Hive relic sword, then use its light attack, heavy attack, or block to match whichever miniboss type you're facing. Learn that pattern…">
+<meta name="description" content="Pit of Heresy leans hard on one recurring idea: pick up a Hive relic sword, then use its light attack, heavy attack, or block to match whichever miniboss…">
 <meta property="og:type" content="website">
 <meta property="og:site_name" content="Rally Flag">
 <meta property="og:title" content="Pit of Heresy Dungeon Guide">
-<meta property="og:description" content="Pit of Heresy leans hard on one recurring idea: pick up a Hive relic sword, then use its light attack, heavy attack, or block to match whichever miniboss type you're facing. Learn that pattern…">
+<meta property="og:description" content="Pit of Heresy leans hard on one recurring idea: pick up a Hive relic sword, then use its light attack, heavy attack, or block to match whichever miniboss…">
 <meta property="og:url" content="https://rallyflag.gg/dungeon-pit-of-heresy.html">
 <link rel="canonical" href="https://rallyflag.gg/dungeon-pit-of-heresy.html">
 <meta property="og:image" content="https://www.bungie.net/img/destiny_content/pgcr/dungeon_pit_of_heresy.jpg">
@@ -55,7 +55,7 @@
 <meta property="og:image:alt" content="Pit of Heresy, official Destiny 2 art">
 <meta name="twitter:card" content="summary_large_image">
 <meta name="twitter:title" content="Pit of Heresy Dungeon Guide">
-<meta name="twitter:description" content="Pit of Heresy leans hard on one recurring idea: pick up a Hive relic sword, then use its light attack, heavy attack, or block to match whichever miniboss type you're facing. Learn that pattern…">
+<meta name="twitter:description" content="Pit of Heresy leans hard on one recurring idea: pick up a Hive relic sword, then use its light attack, heavy attack, or block to match whichever miniboss…">
 <meta name="twitter:image" content="https://www.bungie.net/img/destiny_content/pgcr/dungeon_pit_of_heresy.jpg">
 <link rel="preconnect" href="https://fonts.googleapis.com">
 <link rel="preconnect" href="https://fonts.gstatic.com" crossorigin>
@@ -134,6 +134,7 @@
   .yc-link{ font-size:13px; color:var(--accent-text); white-space:nowrap; }
   @media (max-width:640px){ .your-clears{ margin:14px 16px 0; } }
 </style>
+<script type="application/ld+json">{"@context":"https://schema.org","@graph":[{"@type":"BreadcrumbList","itemListElement":[{"@type":"ListItem","position":1,"name":"Rally Flag","item":"https://rallyflag.gg/"},{"@type":"ListItem","position":2,"name":"Dungeons","item":"https://rallyflag.gg/dungeons.html"},{"@type":"ListItem","position":3,"name":"Pit of Heresy","item":"https://rallyflag.gg/dungeon-pit-of-heresy.html"}]},{"@type":"Article","headline":"Pit of Heresy Dungeon Guide","description":"Pit of Heresy leans hard on one recurring idea: pick up a Hive relic sword, then use its light attack, heavy attack, or block to match whichever miniboss…","image":["https://www.bungie.net/img/destiny_content/pgcr/dungeon_pit_of_heresy.jpg"],"url":"https://rallyflag.gg/dungeon-pit-of-heresy.html","mainEntityOfPage":"https://rallyflag.gg/dungeon-pit-of-heresy.html","inLanguage":"en","about":{"@type":"VideoGame","name":"Destiny 2"},"author":{"@type":"Organization","name":"Rally Flag","url":"https://rallyflag.gg/"},"publisher":{"@type":"Organization","name":"Rally Flag","url":"https://rallyflag.gg/","logo":{"@type":"ImageObject","url":"https://rallyflag.gg/assets/icon-512.png"}}}]}</script>
 </head>
 <body data-nav-group="guides">
 

diff --git a/raid-salvations-edge.html b/raid-salvations-edge.html
@@ -42,11 +42,11 @@
 </script>
 <title>Salvation's Edge Raid Guide - Rally Flag</title>
 <script>window.GUIDE_SLUG = "salvations-edge";</script>
-<meta name="description" content="Salvation's Edge is the final raid of the original Light and Darkness saga, and it plays like it: five long, intricate encounters that layer symbol logic, split teams, and shared timers on top of…">
+<meta name="description" content="Salvation's Edge is the final raid of the original Light and Darkness saga, and it plays like it: five long, intricate encounters that layer symbol logic…">
 <meta property="og:type" content="website">
 <meta property="og:site_name" content="Rally Flag">
 <meta property="og:title" content="Salvation's Edge Raid Guide">
-<meta property="og:description" content="Salvation's Edge is the final raid of the original Light and Darkness saga, and it plays like it: five long, intricate encounters that layer symbol logic, split teams, and shared timers on top of…">
+<meta property="og:description" content="Salvation's Edge is the final raid of the original Light and Darkness saga, and it plays like it: five long, intricate encounters that layer symbol logic…">
 <meta property="og:url" content="https://rallyflag.gg/raid-salvations-edge.html">
 <link rel="canonical" href="https://rallyflag.gg/raid-salvations-edge.html">
 <meta property="og:image" content="https://www.bungie.net/img/destiny_content/pgcr/raid_splinter.jpg">
@@ -55,7 +55,7 @@
 <meta property="og:image:alt" content="Salvation's Edge, official Destiny 2 art">
 <meta name="twitter:card" content="summary_large_image">
 <meta name="twitter:title" content="Salvation's Edge Raid Guide">
-<meta name="twitter:description" content="Salvation's Edge is the final raid of the original Light and Darkness saga, and it plays like it: five long, intricate encounters that layer symbol logic, split teams, and shared timers on top of…">
+<meta name="twitter:description" content="Salvation's Edge is the final raid of the original Light and Darkness saga, and it plays like it: five long, intricate encounters that layer symbol logic…">
 <meta name="twitter:image" content="https://www.bungie.net/img/destiny_content/pgcr/raid_splinter.jpg">
 <link rel="preconnect" href="https://fonts.googleapis.com">
 <link rel="preconnect" href="https://fonts.gstatic.com" crossorigin>
@@ -199,6 +199,7 @@
   .yc-link{ font-size:13px; color:var(--accent-text); white-space:nowrap; }
   @media (max-width:640px){ .your-clears{ margin:14px 16px 0; } }
 </style>
+<script type="application/ld+json">{"@context":"https://schema.org","@graph":[{"@type":"BreadcrumbList","itemListElement":[{"@type":"ListItem","position":1,"name":"Rally Flag","item":"https://rallyflag.gg/"},{"@type":"ListItem","position":2,"name":"Raids","item":"https://rallyflag.gg/raids.html"},{"@type":"ListItem","position":3,"name":"Salvation's Edge","item":"https://rallyflag.gg/raid-salvations-edge.html"}]},{"@type":"Article","headline":"Salvation's Edge Raid Guide","description":"Salvation's Edge is the final raid of the original Light and Darkness saga, and it plays like it: five long, intricate encounters that layer symbol logic…","image":["https://www.bungie.net/img/destiny_content/pgcr/raid_splinter.jpg"],"url":"https://rallyflag.gg/raid-salvations-edge.html","mainEntityOfPage":"https://rallyflag.gg/raid-salvations-edge.html","inLanguage":"en","about":{"@type":"VideoGame","name":"Destiny 2"},"author":{"@type":"Organization","name":"Rally Flag","url":"https://rallyflag.gg/"},"publisher":{"@type":"Organization","name":"Rally Flag","url":"https://rallyflag.gg/","logo":{"@type":"ImageObject","url":"https://rallyflag.gg/assets/icon-512.png"}}}]}</script>
 </head>
 <body data-nav-group="guides">
 

diff --git a/dungeon-shattered-throne.html b/dungeon-shattered-throne.html
@@ -42,11 +42,11 @@
 </script>
 <title>Shattered Throne Dungeon Guide - Rally Flag</title>
 <script>window.GUIDE_SLUG = "shattered-throne";</script>
-<meta name="description" content="Shattered Throne was Destiny 2's first dungeon, and it plays like a compact, three-player raid: no elaborate mechanics, but tight arenas, real add pressure, and bosses that punish sloppy…">
+<meta name="description" content="Shattered Throne was Destiny 2's first dungeon, and it plays like a compact, three-player raid: no elaborate mechanics, but tight arenas, real add…">
 <meta property="og:type" content="website">
 <meta property="og:site_name" content="Rally Flag">
 <meta property="og:title" content="Shattered Throne Dungeon Guide">
-<meta property="og:description" content="Shattered Throne was Destiny 2's first dungeon, and it plays like a compact, three-player raid: no elaborate mechanics, but tight arenas, real add pressure, and bosses that punish sloppy…">
+<meta property="og:description" content="Shattered Throne was Destiny 2's first dungeon, and it plays like a compact, three-player raid: no elaborate mechanics, but tight arenas, real add…">
 <meta property="og:url" content="https://rallyflag.gg/dungeon-shattered-throne.html">
 <link rel="canonical" href="https://rallyflag.gg/dungeon-shattered-throne.html">
 <meta property="og:image" content="https://www.bungie.net/img/destiny_content/pgcr/mission_labyrinth.jpg">
@@ -55,7 +55,7 @@
 <meta property="og:image:alt" content="Shattered Throne, official Destiny 2 art">
 <meta name="twitter:card" content="summary_large_image">
 <meta name="twitter:title" content="Shattered Throne Dungeon Guide">
-<meta name="twitter:description" content="Shattered Throne was Destiny 2's first dungeon, and it plays like a compact, three-player raid: no elaborate mechanics, but tight arenas, real add pressure, and bosses that punish sloppy…">
+<meta name="twitter:description" content="Shattered Throne was Destiny 2's first dungeon, and it plays like a compact, three-player raid: no elaborate mechanics, but tight arenas, real add…">
 <meta name="twitter:image" content="https://www.bungie.net/img/destiny_content/pgcr/mission_labyrinth.jpg">
 <link rel="preconnect" href="https://fonts.googleapis.com">
 <link rel="preconnect" href="https://fonts.gstatic.com" crossorigin>
@@ -134,6 +134,7 @@
   .yc-link{ font-size:13px; color:var(--accent-text); white-space:nowrap; }
   @media (max-width:640px){ .your-clears{ margin:14px 16px 0; } }
 </style>
+<script type="application/ld+json">{"@context":"https://schema.org","@graph":[{"@type":"BreadcrumbList","itemListElement":[{"@type":"ListItem","position":1,"name":"Rally Flag","item":"https://rallyflag.gg/"},{"@type":"ListItem","position":2,"name":"Dungeons","item":"https://rallyflag.gg/dungeons.html"},{"@type":"ListItem","position":3,"name":"Shattered Throne","item":"https://rallyflag.gg/dungeon-shattered-throne.html"}]},{"@type":"Article","headline":"Shattered Throne Dungeon Guide","description":"Shattered Throne was Destiny 2's first dungeon, and it plays like a compact, three-player raid: no elaborate mechanics, but tight arenas, real add…","image":["https://www.bungie.net/img/destiny_content/pgcr/mission_labyrinth.jpg"],"url":"https://rallyflag.gg/dungeon-shattered-throne.html","mainEntityOfPage":"https://rallyflag.gg/dungeon-shattered-throne.html","inLanguage":"en","about":{"@type":"VideoGame","name":"Destiny 2"},"author":{"@type":"Organization","name":"Rally Flag","url":"https://rallyflag.gg/"},"publisher":{"@type":"Organization","name":"Rally Flag","url":"https://rallyflag.gg/","logo":{"@type":"ImageObject","url":"https://rallyflag.gg/assets/icon-512.png"}}}]}</script>
 </head>
 <body data-nav-group="guides">
 
